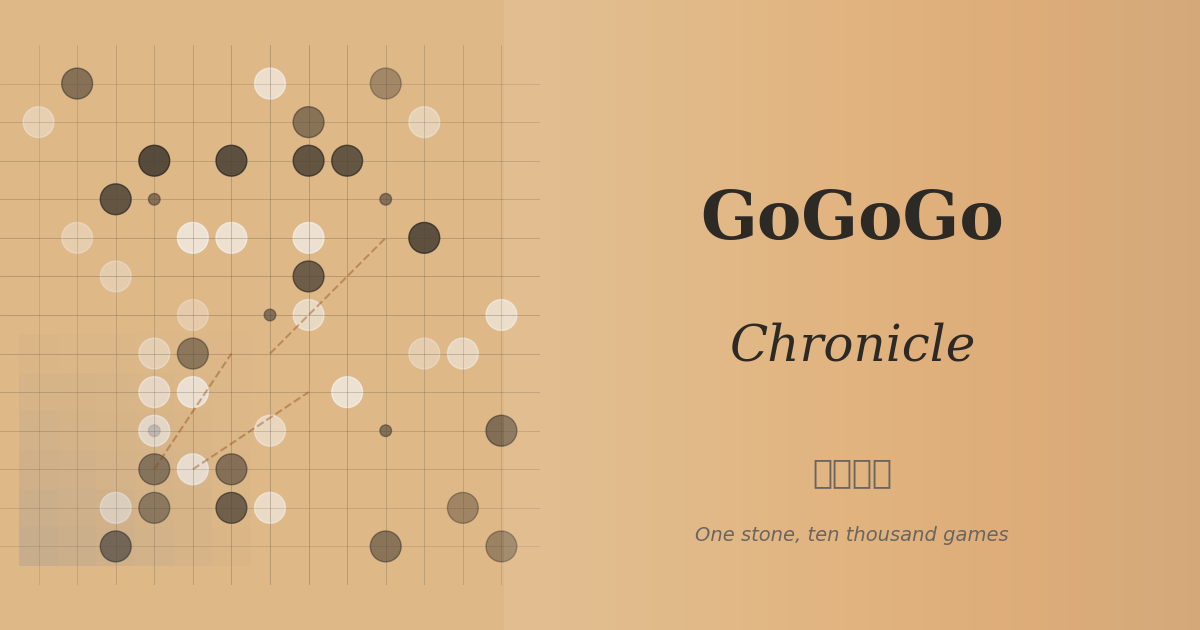
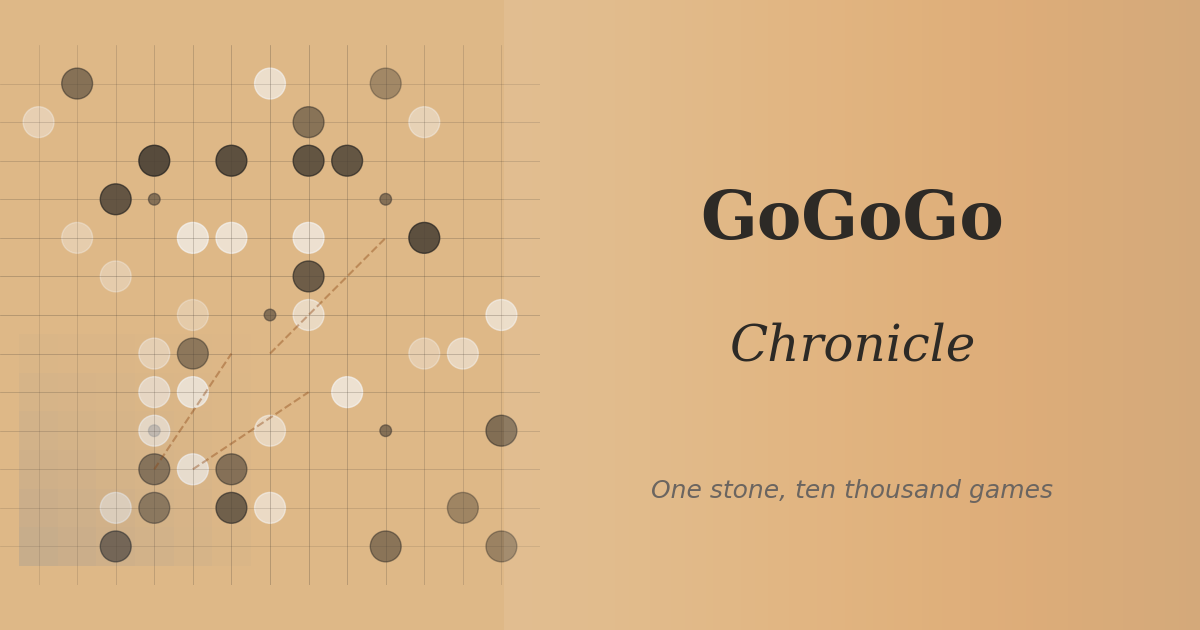
fix(blog): Remove CJK from OG images - prevents tofu squares on share

Changed region(s): [[0.555, 0.7238, 0.8942, 0.8143], [0.5858, 0.8444, 0.8325, 0.8746]]

diff --git a/blog/scripts/generate_og.py b/blog/scripts/generate_og.py
@@ -151,9 +151,7 @@ def generate_og_image(title: str, phase: str = None, output_path: Path = None, i
         ax_text.text(0.5, 0.45, 'Chronicle', fontsize=36,
                     color=COLORS['text'], ha='center', va='center',
                     fontfamily='serif', style='italic')
-        ax_text.text(0.5, 0.25, '一石万局', fontsize=24,
-                    color=COLORS['text_light'], ha='center', va='center')
-        ax_text.text(0.5, 0.15, 'One stone, ten thousand games', fontsize=14,
+        ax_text.text(0.5, 0.22, 'One stone, ten thousand games', fontsize=18,
                     color=COLORS['text_light'], ha='center', va='center',
                     style='italic')
     else:
